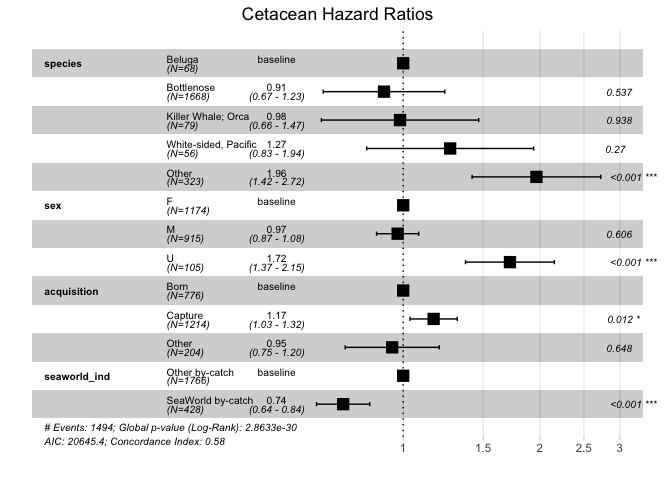
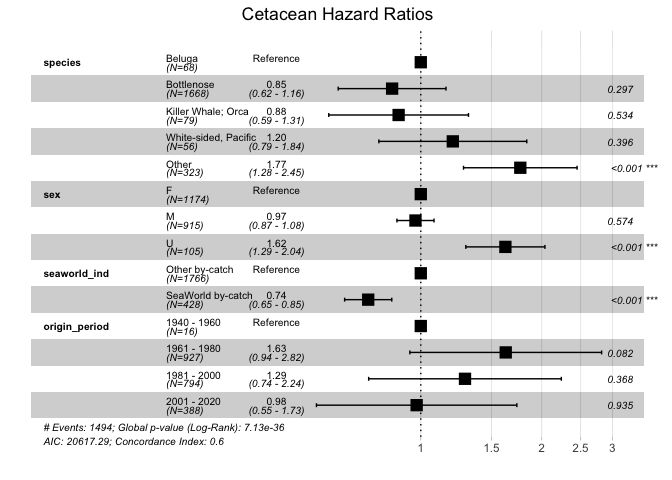
Final version of the cetacean data analysis - the majority of changes are now complete.

diff --git a/Cetacean Analysis/Cetacean_Data_Analysis.md b/Cetacean Analysis/Cetacean_Data_Analysis.md
@@ -1,17 +1,22 @@
 Captive Cetaceans: Exploratory Analysis & Mortality Investigation
 ================
 Johnny Breen
-27/12/2018
+24/03/2018
 
 Introduction
 ============
 
-This is my first ever contribution to the [TidyTuesday](https://github.com/rfordatascience/tidytuesday) challenges posted on github. In this post, I am going to analyse a dataset submitted on various cetacean species (i.e. dolphins, whales and porpoises).
+This is my first ever contribution to the [TidyTuesday](https://github.com/rfordatascience/tidytuesday) project hosted on github. In this post, I am going to analyse a dataset submitted on various cetacean species (incase, like me, you don't know what a 'cetacean' is, it collectively refers to species such as dolphins and whales).
 
-As a student actuary, I take a great interest in the study of mortality and, normally, in our line of work it is the mortality of human beings that is analysed (in the context of providing life insurance and annuities). However, given that this data contains valuable information on the death rates of captive cetaceans, I'd like to make the focus of this analysis on cetacean *mortality*. According to the [WWF](http://wwf.panda.org/knowledge_hub/endangered_species/cetaceans/threats/bycatch/), one of the leading causes of premature mortality in dolphins is incidental capture (or otherwise known as by-catch). I do not doubt these claims, given that they are supported by extensive research and vocal scientific voices, and I am aware of the corrosive effect that imprisonment can have on the mental health of cetaceans through various documentaries I have watched over the past few years.
+As a student actuary, I am quite interested in the study of mortality. Within actuarial work itself, mortality investigations are, unsurprisingly, limited to human beings (in the context of selling life insurance and annuities, where setting the appropriate premium is of paramount importance). However, given that this data contains valuable information on the death incidence of captive cetaceans, I'd like to make the focus of this analysis on cetacean *mortality*.
+
+Background
+==========
+
+According to the [WWF](http://wwf.panda.org/knowledge_hub/endangered_species/cetaceans/threats/bycatch/), one of the leading causes of premature mortality in dolphins is incidental capture (otherwise known as by-catch). If any of you have had the chance to watch the excellent documentary Blackfish, you would have witnessed the incredibly mental torture and suffering imposed on cetaceans by captivity. Cetaceans are designed to travel; [according to conservation biologist Rob Williams](http://www.bbc.co.uk/earth/story/20160310-why-killer-whales-should-not-be-kept-in-captivity), "These are animals that coordinate their movements over scales of tens of kilometres. It's difficult to replicate that in any aquarium". It is estimated that many orcas travel over 62 miles every day so being imprisoned in something like a SeaWorld complex is extremely damaging to the cetacean way of living.
 
 Preliminary Data Inspection
----------------------------
+===========================
 
 As a first step, let us load the cetacean data from the TidyTuesdays github repository:
 
@@ -64,7 +69,7 @@ species_raw %>%
 
 ![](Cetacean_Data_Analysis_files/figure-markdown_github/unnamed-chunk-1-1.png)
 
-One important driver of mortality in humans is gender type. It would be interesting to clarify whether this is replicated in cetaceans:
+One important driver of mortality in humans is gender type. It would be interesting to verify whether this phenomenon is replicated in captive cetaceans or not:
 
 ``` r
 # the balance of gender is fairly even - this will make our gender-based estimates more reliable
@@ -79,7 +84,7 @@ species_raw %>%
     ## 2 M       915
     ## 3 U       105
 
-It might also be interesting to investigate how the transition into or out of SeaWorld (notorious for its mistreatment of dolphins - see ['Blackfish'](https://en.wikipedia.org/wiki/Blackfish_(film)) affects the mortality of dolphins:
+It might also be interesting to investigate how the transition into or out of SeaWorld (notorious for its mistreatment of dolphins - see ['Blackfish'](https://en.wikipedia.org/wiki/Blackfish_(film)) affects the mortality of cetaceans:
 
 ``` r
 species_raw %>%
@@ -94,14 +99,17 @@ species_raw %>%
     ## 2 TRUE           428
     ## 3 NA            1392
 
-### Exploratory Data Analysis
+Exploratory Data Analysis
+=========================
 
 Mortality Analysis
 ------------------
 
-Let's focus our analysis on deceased species now. Our first step should be to filter the data on 'deceased' species and, in addition to this, engineer the lifespan of each cetacean in the dataset.
+Let's focus our analysis on deceased species.
 
-We could focus our analysis solely on cetaceans where the date of birth is known to be accurate, but this would then exclude cetaceans who were born in the wild and subsequently captured - my gut feeling is that this could be an interesting splitting variable so I would like to retain this information. Just be aware that this implies the `lifespan` variable is estimated, in some cases:
+We could focus our analysis solely on cetaceans where the date of birth is known to be accurate, but this would then exclude cetaceans who were born in the wild and subsequently captured - my gut feeling is that this could be an interesting splitting variable so I would like to retain this information. Be aware, however, that this implies the `lifespan` variable is estimated in some cases
+
+Our first step should be to filter the data on 'deceased' species and, in addition to this, engineer the lifespan of each cetacean in the dataset.:
 
 ``` r
 species_deceased <- species_raw %>%
@@ -109,7 +117,7 @@ species_deceased <- species_raw %>%
   mutate(lifespan = as.integer(difftime(statusDate, originDate, units = "days")) / 365.25)
 ```
 
-So, now, for each species we have a known (or in the case of captured cetaceans) lifespan. I will first narrow down the scope of the fields in the data
+So, now, for each species we have a known (or, in the case of captured cetaceans, estimated) lifespan. I will first narrow down the scope of the fields in the data
 
 ``` r
 species_deceased_clean <- species_deceased %>%
@@ -167,7 +175,7 @@ species_deceased_clean %>%
 
 ![](Cetacean_Data_Analysis_files/figure-markdown_github/unnamed-chunk-6-1.png)
 
-It can be very tempting to draw conclusions from a plot like this; however, it should be noted that we previously inspected the distribution of species available in the data and the *vast* majority of cetaceans fall under the 'Bottlenose' category. This means that the high lifespan of the Amazon River / Boto species is slightly suspicious. We can confirm the distribution of various species by quick inspection of the variable in the deceased data:
+It can be very tempting to draw statistical conclusions from a plot like this; however, it should be noted that we previously inspected the distribution of species available in the data and the *vast* majority of cetaceans fell under the 'Bottlenose' category. This means that the high lifespan of the Amazon River / Boto species is slightly suspicious and may be due to a sampling error. We can confirm the distribution of various species by quick inspection of the variable in the deceased data:
 
 ``` r
 # top 10 species
@@ -228,32 +236,32 @@ species_deceased_conf <- species_deceased_clean %>%
   transmute(species, avg_lifespan = estimate, lifespan_low = ifelse(conf.low < 0, 0, conf.low), lifespan_high = conf.high) # the lower end of a confidence interval can stray below zero since we are implicitly assuming that each of the species' average lifespan is normally distributed - for sensibility, we set any conf.low values below zero to zero 
 ```
 
-Now that we have derived a reasonable set of confidence intervals, we can plot the average survival times for each species type once again:
+Now that we have derived a reasonable set of confidence intervals, we can plot the average survival times for each species type once again (this time we will include a confidence band):
 
 ``` r
 species_deceased_conf %>%
   top_n(10, avg_lifespan) %>%
   inner_join(count(species_deceased_clean, species)) %>%
   mutate(species = fct_reorder(species, avg_lifespan)) %>%
-  ggplot(aes(x = avg_lifespan, y = species)) +
-  geom_point(aes(colour = species), show.legend = FALSE) +
-  geom_errorbarh(aes(xmin = lifespan_low, xmax = lifespan_high), alpha = 0.75) +
+  ggplot(aes(x = avg_lifespan, y = species, colour = species)) +
+  geom_point(show.legend = F) +
+  geom_errorbarh(aes(xmin = lifespan_low, xmax = lifespan_high), alpha = 0.75, show.legend = F) +
   theme_classic() +
   scale_x_continuous(breaks = seq(0, 50, 5)) +
   labs(x = "Average lifespan (years)",
        y = "Species",
-       title = "Top 10 average cetacean lifespans by species type",
-       subtitle = "The confidence interval is unsurprisingly most narrow for the Bottlenose type")
+       title = "Top 10 average cetacean lifespans split by species",
+       subtitle = "The 95% confidence interval is unsurprisingly most narrow for the Bottlenose type")
 ```
 
 ![](Cetacean_Data_Analysis_files/figure-markdown_github/unnamed-chunk-9-1.png)
 
-Now we can see more clearly which estimates are likely to be closer to the true values than others (as is reflected by the width of the confidence intervals). Clearly, we can be quite sure that the Bottlenose lifespan estimate is more or less between around 8 and 10 years. Regarding the False Killer Whale however, the true value could lie anywhere between 2-ish and 14-ish years making the average a little bit meaningless.
+This plot is more informative, in my opinion: we are able to observe the scope of each lifespan estimate, as is reflected by the width of the confidence intervals. For example, we now know with 95% confidence that the captive Bottlenose lifespan estimate ought to lie between roughly 8 to 10 years. By contrast, the average lifespan of a False Killer Whale, according to this plot, could lie anywhere between 2-ish and 14-ish years making it more difficult to make statistical conclusions about the False Killer Whale's mortality rating.
 
 Time-based Analysis
 -------------------
 
-One question I am curious about is how capture rates have changed in prevalence over time:
+Stepping back from mortality for a moment, it might be interesting from an exploratory point of view to investiagte how capture rates have changed in prevalence over time:
 
 ``` r
 # aggregate plot
@@ -285,7 +293,7 @@ species_raw %>%
 
 ![](Cetacean_Data_Analysis_files/figure-markdown_github/unnamed-chunk-10-2.png)
 
-According to information on Wikipedia amost half of all spinner dolphins were killed in the 30 years after purse seine fishing for tuna began in the 1950. I wasn't aware of this phenomenon but it could be a potential reason as to why the distribution of the spinner capture rate is so markedly different from the others.
+According to information on Wikipedia amost half of all spinner dolphins were killed in the 30 years after purse seine fishing for tuna began in the 1950s. I wasn't aware of this phenomenon but it could be a potential reason as to why the distribution of the spinner capture rate is so markedly different from the others within the range 1955-ish to 1980-ish.
 
 A more general phenomenon to inspect would be how capture / born / rescue rates have changed over time:
 
@@ -306,31 +314,35 @@ species_raw %>%
 
 ![](Cetacean_Data_Analysis_files/figure-markdown_github/unnamed-chunk-11-1.png)
 
-Clearly, some legislation has come into practice around the 1990s period which has caused a sudden dropoff in the number of dolphins captured. This is interesting to note because it wouldn't necessarily be anticipated prior to visualisation.
+It appears as though some kind of legislation came into effect at the beginning of the 1990s, which caused a sharp dropoff in the number of dolphins permitted to be captured from the wild. This was quite a revelation for me, as I was not aware of this phenomenon prior to visualisation. Upon further research, however, it does seem that the vast majority of aquatic entertainment complexes are now attempting to [breed cetaceans](https://us.whales.org/orca-captivity/) as opposed to capturing them in the wild.
 
-### Survival Modelling
+Survival Modelling
+==================
 
 In order to fit a series of survival models to the data we will leverage two additional packages `survival` and `survminer`:
 
 ``` r
-library(survival)
-library(survminer)
+library(survival) # allows a survival model to be fit in basically one line of code!
+library(survminer) # more of a visualisation package - we use a combination of this and ggplot / broom
 ```
 
     ## Loading required package: ggpubr
 
-This time, we won't be restricting the data to dead species only. Of course, we are interested in calculating the probability of death but in this data we have clear instances of *censoring* present:
+This time, we won't be restricting the data to deceased species. To be clear, we are interested in calculating the probability of death but in this data we have clear instances of *censoring*:
 
 -   Random censoring is present as certain cetaceans have been released prematurely (a form of censoring that would not have been known to the data collectors at inception)
 -   Right censoring is present for cetaceans which are currently alive, released or those for which the current status is unknown
 
-These forms of censoring must be incorporated into our model. We will first engineer our survival data in a similar way to how we did it for the deceased species. Before we do so, note that the status of the cetacean is recorded as at 7 May 2017:
+These forms of censoring must be incorporated into our model. We will first engineer our survival data in a similar way to how we did it for the deceased species. Before we do so, note that the `status` of the cetacean is recorded as at 7 May 2017:
 
 ``` r
 species_clean <- species_raw %>%
   transmute(species = fct_lump(species, n = 4), # the top four categories have at least 4 observations
             sex, 
-            accuracy, 
+            origin_period = as.factor(case_when(between(year(originDate), 1940, 1960) ~ "1940 - 1960",
+                                      between(year(originDate), 1961, 1980) ~ "1961 - 1980",
+                                      between(year(originDate), 1981, 2000) ~ "1981 - 2000",
+                                      between(year(originDate), 2001, 2020) ~ "2001 - 2020")),
             acquisition = fct_lump(acquisition, n = 2), # gets rid of 'Stillbirth' and 'miscarriage' 
             seaworld_ind = ifelse(str_detect(transfers, regex("SeaWorld", ignore_case = TRUE)), "SeaWorld by-catch", "Other by-catch"), 
             lifespan = ifelse(status %in% c("Alive", "Released", "Unknown"), as.integer(difftime(as.Date("2017-05-07"), originDate, units = "days")) / 365.25, as.integer(difftime(statusDate, originDate, units = "days")) / 365.25),
@@ -339,10 +351,12 @@ species_clean <- species_raw %>%
   replace_na(list(seaworld_ind = "Other by-catch"))
 ```
 
-Kaplan-Meier Estimation
------------------------
+Kaplan-Meier Model
+------------------
 
-Let's first fit a non-parametric model to the data in the form of the Kaplan-Meier survival model. We could split on different variables such as `sex` and `acquisition` but since I plan to fit a cox proportional hazards model shortly (and such a model leverages covariates) I will probably keep this to a minimum. However, I think I will split the data according to whether the cetacean was born in captivity or captured
+Let's first fit a non-parametric model to the data in the form of the Kaplan-Meier survival model.
+
+I will split the data according to whether the cetacean was born in captivity, captured or otherwise:
 
 ``` r
 species_clean_surv <- Surv(time = pull(species_clean, lifespan), event = pull(species_clean, censored))
@@ -356,24 +370,29 @@ species_KM %>%
   geom_step(aes(colour = strata)) + 
   geom_ribbon(aes(ymin = conf.low, ymax = conf.high, fill = strata), alpha = 0.3) + 
   theme_light() +
-  scale_x_continuous(breaks = seq(0, 60, 5)) +
+  facet_wrap(~strata) +  
+  scale_x_continuous(breaks = seq(0, 60, 10)) +
   scale_y_continuous(labels = scales::percent_format()) +
-  labs(x = "Life Expectancy (years)",
-       y = "Probability of Survival",
+  labs(x = "Time until death (years)",
+       y = "Probability of survival",
        title = "Kaplan-Meier Survival Fit",
-       subtitle = "According to the fit, less than 50% of captive cetaceans are expected to reach 15 years old",
+       subtitle = "According to the fit, less than 50% of born-captive cetaceans are expected to reach age 15",
        fill = "Acquisition",
        colour = "Acquisition") 
 ```
 
 ![](Cetacean_Data_Analysis_files/figure-markdown_github/unnamed-chunk-14-1.png)
 
-Judging by this plot, if the data is taken to be a good indicator of reality, less than 50% of cetaceans in captivity (born or captured) make it past the age of approximately 10 years old. This is significantly lower than the life expectancy of cetaceans in the wild where the range from 30 - 50 years. Interesting to note is that one would have expected the survival probability of cetaceans born into captivity to be overall lower than those captured (for example, [here](https://us.whales.org/2018/08/23/how-long-do-bottlenose-dolphins-survive-in-captivity/) ). However, we must factor into the equation the fact that captured cetaceans do live a few extra years *outside* of captivity so this is expected.
+Judging by these model fits, less than 50% of cetaceans born into captivity make it past the age of approximately 15 years old. This is significantly lower than the life expectancy of cetaceans in the wild where life expectancies typically span the range of 30 to 50 years old.
+
+You might have expected - according to your own logic - the survival probability of cetaceans born into captivity to be lower, on average, than those captured (see, for example, [this link](https://us.whales.org/2018/08/23/how-long-do-bottlenose-dolphins-survive-in-captivity/)). And you wouldn't be mistaken. However, here we must be careful: we must account for the fact that captured cetaceans live a certain portion of their life *prior* to being captured (captivity) so we should expect the time until death to be, in aggregate, slightly lower for this category of cetaceans.
 
 Cox Proportional Hazards Model
 ------------------------------
 
-In this instance, we will use the data from before, but this time we will be able to factor in the effect of different covariates (such as sex and captivity origin) on the probability of survival. A 'hazard' can be thought of as the instantaneous probability of transition from one 'state' to another - in this case, the states are 'Alive' and 'Dead'. The Cox proportional hazards model assumes that:
+Now we will use the same data, but this time we want to compare survival risks between different classes of species - for example, how much more likely is a male to die than a female? What about cetaceans caught in the last 20 years? To answer these questions we need to turn to the 'Cox Proportional Hazards' model.
+
+A 'hazard' can be thought of as the instantaneous probability of transition from one 'state' to another - in this case, the states are 'Alive' and 'Dead'. The Cox proportional hazards model assumes that:
 
 -   The 'hazard' of an individual life is dependent on (i) a *non-parametric* 'baseline' hazard dependent only on time; and (ii) a *parametric* regression-based model, parametrised by a set of time independent factors such as sex
 -   The ratio of an individual's hazard to the 'baseline' hazard remains in a constant proportion over time
@@ -381,20 +400,23 @@ In this instance, we will use the data from before, but this time we will be abl
 With these assumptions in mind, we can proceed to fit a model to the data:
 
 ``` r
-species_coxph <- coxph(species_clean_surv ~ species + sex + acquisition + seaworld_ind, 
+species_coxph <- coxph(species_clean_surv ~ species + sex + seaworld_ind + origin_period, 
                    data = species_clean)
 ```
 
-We can use the survminer `ggforest` function (it's basically a wrapper around a more complicated ggplot which I do not have the time to create!) to quickly inspect the relative differences in mortality due to the factors we fit the model on above:
+We can use the survminer `ggforest` function (it is essentially a wrapper around a more complicated ggplot which I do not have the time to create!) to quickly visualise the proportional differences in mortality according to the covariates specified above:
 
 ``` r
-ggforest(species_coxph, data = species_clean, main = "Cetacean Hazard Ratios", refLabel = "baseline")
+ggforest(species_coxph, data = species_clean, main = "Cetacean Hazard Ratios", refLabel = "Reference")
 ```
 
 ![](Cetacean_Data_Analysis_files/figure-markdown_github/unnamed-chunk-16-1.png)
 
-Some notable observations:
+Note that each category (e.g. species, sex and so forth) begins with a 'reference' baseline value to which other values within that same category are compared to. For example, we can see from the plot above that, for example, if the dolphin was held captive in the period 1961 - 1980, then on average it had a 63% increased risk of death than those held captive in 1940 - 1960. That is only on average however - the confidence intervals exist for a reason. In general a hazard ratio of above 1 indicates an increased risk of transition to death and vice versa.
 
--   The relative risk of mortality appears to be 26% lower for those cetaceans housed in SeaWorld - this surprises me slightly given what we know about SeaWorld as reported by the media. Nonetheless, it is key to remember that all of these species are *captive* so, in truth, any by-catch will be bad for the health and condition of any cetacean
--   There is a 16% increased risk of mortality to captured cetaceans (in comparison to those who were born in captivity).
--   The variance of species mortality appears to be minimised amongst the studied species; however, this could easily be because we omitted any species with a frequency of less than 50 from our analysis. A keen observer will note that this plot indeed replicates the earlier plot
+Here is what we can conclude from the plot above:
+
+-   The relative risk of mortality appears to be ~ 26% lower for cetaceans who have spent time in SeaWorld - this surprises me slightly given what we know about SeaWorld as reported by the media. Nonetheless, it is key to remember that all of these species - regardless of their transit history - are ultimately *captive*. Therefore, whilst there appears to be a relative increase in the probability of survival for those mammals affiliated with SeaWorld, I am fairly certain that by-catch in general is detrimental to the health of any cetacean species. We're simply comparing 'bad' with 'even worse' here.
+-   There is a extremely significant increase in the risk of death amongst species with an unknown gender. This is curious because, as can be observed, there is a non-trivial number of mammals (`N = 105`) contained within this category. Unfortunately, there is no further information on why the gender of these species is unknown.
+-   The variance of mortality appears to be minimised amongst different species types; however, this could easily be because we omitted any species with a frequency of less than 50 from our analysis. A keen observer will note that the hazard ratios presented above appear to replicate the information communicated in the plot of confidence intervals we made earlier. In truth, we do not have sufficient data on each species to comment conclusively on which species suffer more than others.
+-   On average, there seems to be a difference in mortality within different generations, with mortality gradually reducing every 20 years from 1960 to 2020. Note that there are only `N = 16` data points in the period 1940 - 1960 so this isn't the best reference to use; however, we can still clearly observe a decreasing trend in mortality risk over time.
